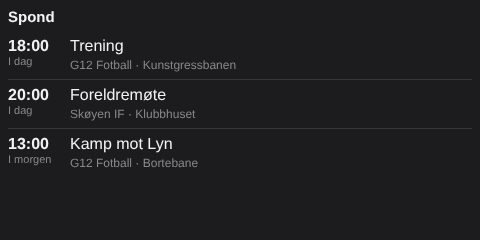
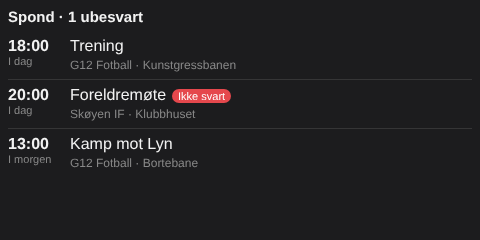
Homey Spond app: count and read out unanswered events, v1.3.0
Claude-Session: https://claude.ai/code/session_01AziwnhkUB1s87sH6wAtonC

Changed region(s): [[0.3438, 0.35, 0.5, 0.4375], [0.125, 0.0292, 0.3125, 0.1167]]

diff --git a/homey-spond/app.js b/homey-spond/app.js
@@ -27,13 +27,21 @@ class SpondApp extends Homey.App {
         });
       });
 
+    this.homey.flow.getConditionCard('has_unanswered')
+      .registerRunListener(async () => this.unansweredCount() > 0);
+
     this.homey.flow.getActionCard('refresh').registerRunListener(() => this.poll());
 
     this.summaryTrigger = this.homey.flow.getTriggerCard('daily_summary');
     this.homey.flow.getActionCard('create_daily_summary').registerRunListener(async () => {
       await this.poll().catch(this.error); // fresh data; fall back to cached events on error
       const today = this.events.filter((e) => isToday(new Date(e.startTimestamp)));
-      await this.summaryTrigger.trigger({ text: summary(today), count: today.length });
+      const unanswered = this.unansweredCount();
+      await this.summaryTrigger.trigger({
+        text: summary(today, unanswered),
+        count: today.length,
+        unanswered,
+      });
     });
 
     this.homey.settings.on('set', (key) => {
@@ -45,6 +53,32 @@ class SpondApp extends Homey.App {
 
     this.poll().catch(this.error);
     this.homey.setInterval(() => this.poll().catch(this.error), POLL_MS);
+  }
+
+  // Member ids (per group) that belong to me or to someone I'm guardian for. Refreshed hourly.
+  async refreshMyMemberIds(client) {
+    if (this.myMemberIds && Date.now() - this.myMemberIdsAt < 3600000) return;
+    const profile = await client.getProfile();
+    const groups = await client.getGroups();
+    const ids = new Set();
+    for (const g of groups) {
+      for (const m of g.members || []) {
+        const mine = m.profile?.id === profile.id || (m.guardians || []).some((x) => x.profile?.id === profile.id);
+        if (mine) ids.add(m.id);
+      }
+    }
+    this.myMemberIds = ids;
+    this.myMemberIdsAt = Date.now();
+  }
+
+  isUnanswered(e) {
+    if (!this.myMemberIds) return false;
+    const pending = [...(e.responses?.unansweredIds || []), ...(e.responses?.unconfirmedIds || [])];
+    return pending.some((id) => this.myMemberIds.has(id));
+  }
+
+  unansweredCount() {
+    return this.events.filter((e) => e.unanswered).length;
   }
 
   // Used by the dashboard widget.
@@ -60,6 +94,7 @@ class SpondApp extends Homey.App {
         title: e.heading || '',
         group: e.recipients?.group?.name || '',
         location: e.location?.feature || e.location?.address || '',
+        unanswered: !!e.unanswered,
       }));
   }
 
@@ -80,6 +115,8 @@ class SpondApp extends Homey.App {
 
     try {
       this.events = await client.getEvents();
+      await this.refreshMyMemberIds(client).catch(this.error);
+      for (const e of this.events) e.unanswered = this.isUnanswered(e);
     } catch (err) {
       this.homey.settings.set('status', `Feil: ${err.message}`);
       throw err;
@@ -124,7 +161,14 @@ function tokens(e) {
   };
 }
 
-function summary(events) {
+function summary(events, unanswered = 0) {
+  const tail = unanswered
+    ? ` Du har ${unanswered} ubesvart${unanswered === 1 ? '' : 'e'} Spond-arrangement${unanswered === 1 ? '' : 'er'}.`
+    : '';
+  return todaySummary(events) + tail;
+}
+
+function todaySummary(events) {
   if (!events.length) return 'Ingen Spond-arrangementer i dag.';
   const n = events.length;
   const parts = events.map((e) => {

diff --git a/homey-spond/widgets/upcoming/public/index.html b/homey-spond/widgets/upcoming/public/index.html
@@ -12,11 +12,12 @@
     .day { display: block; font-size: 11px; font-weight: 400; color: var(--homey-text-color-light, #888); }
     .title { font-weight: 500; }
     .meta { font-size: 12px; color: var(--homey-text-color-light, #888); }
+    .badge { display:inline-block; margin-left:6px; padding:1px 6px; border-radius:8px; font-size:11px; background:#E5484D; color:#fff; vertical-align:middle; }
     .empty { color: var(--homey-text-color-light, #888); padding: 6px 0; }
   </style>
 </head>
 <body>
-  <h2>Spond</h2>
+  <h2 id="head">Spond</h2>
   <ul id="list"><li class="empty">Laster…</li></ul>
 
   <script type="text/javascript">
@@ -40,6 +41,8 @@
       const days = (Homey.getSettings() || {}).days || '7';
       try {
         const events = await Homey.api('GET', `/events?days=${days}`);
+        const n = events.filter((e) => e.unanswered).length;
+        document.getElementById('head').textContent = n ? `Spond · ${n} ubesvart${n === 1 ? '' : 'e'}` : 'Spond';
         if (!events.length) {
           list.innerHTML = '<li class="empty">Ingen arrangementer</li>';
         } else {
@@ -48,7 +51,7 @@
             const time = d.toLocaleTimeString('nb-NO', { timeZone: tz, hour: '2-digit', minute: '2-digit' });
             const meta = [e.group, e.location].filter(Boolean).map(esc).join(' · ');
             return `<li><span class="when">${time}<span class="day">${esc(label(d))}</span></span>`
-              + `<span><span class="title">${esc(e.title)}</span>${meta ? `<br><span class="meta">${meta}</span>` : ''}</span></li>`;
+              + `<span><span class="title">${esc(e.title)}</span>${e.unanswered ? '<span class="badge">Ikke svart</span>' : ''}${meta ? `<br><span class="meta">${meta}</span>` : ''}</span></li>`;
           }).join('');
         }
       } catch (err) {

diff --git a/homey-spond/lib/spond.js b/homey-spond/lib/spond.js
@@ -38,6 +38,10 @@ class Spond {
     return res.json();
   }
 
+  getProfile() {
+    return this.request('profile');
+  }
+
   getGroups() {
     return this.request('groups/');
   }
